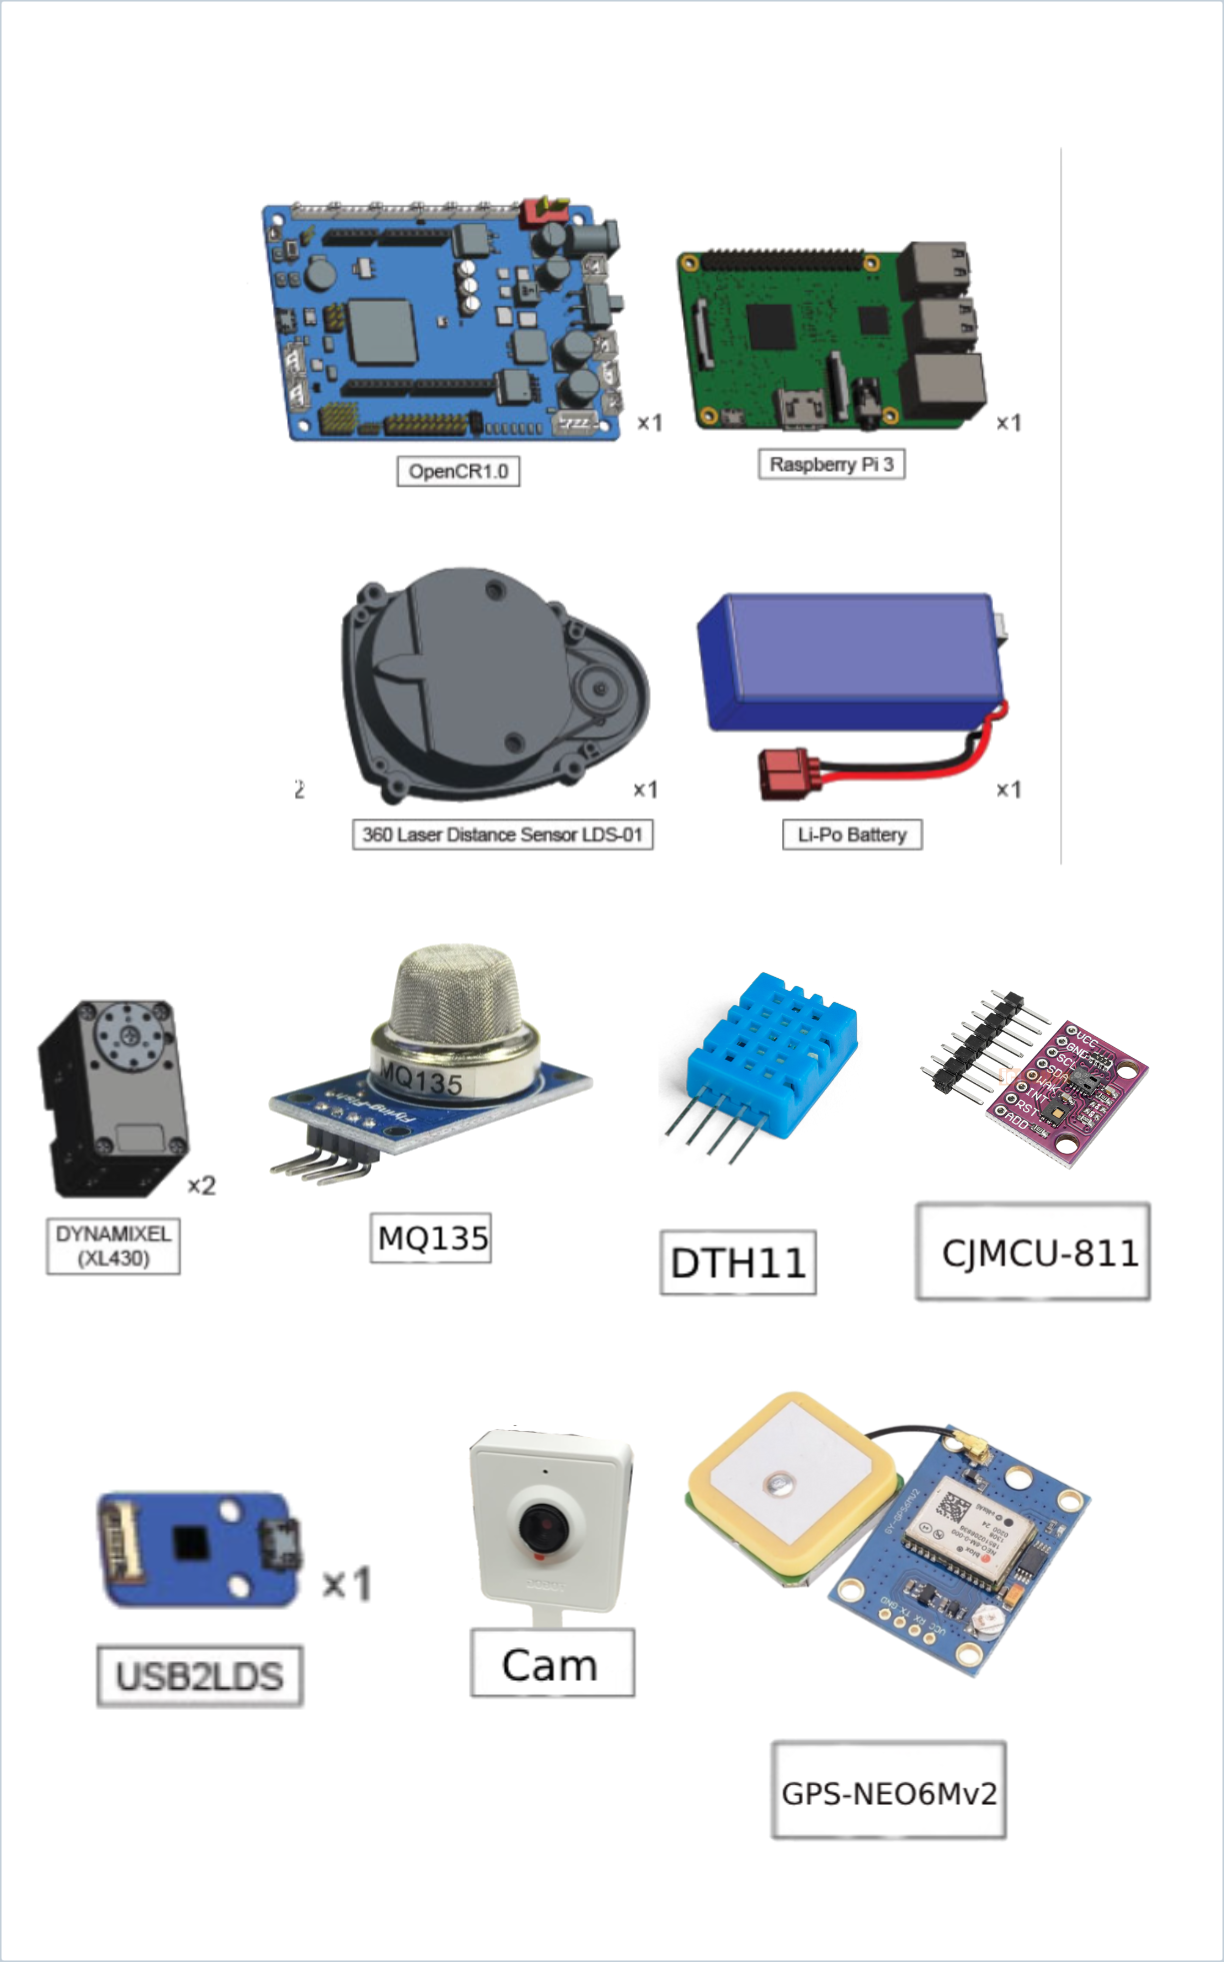
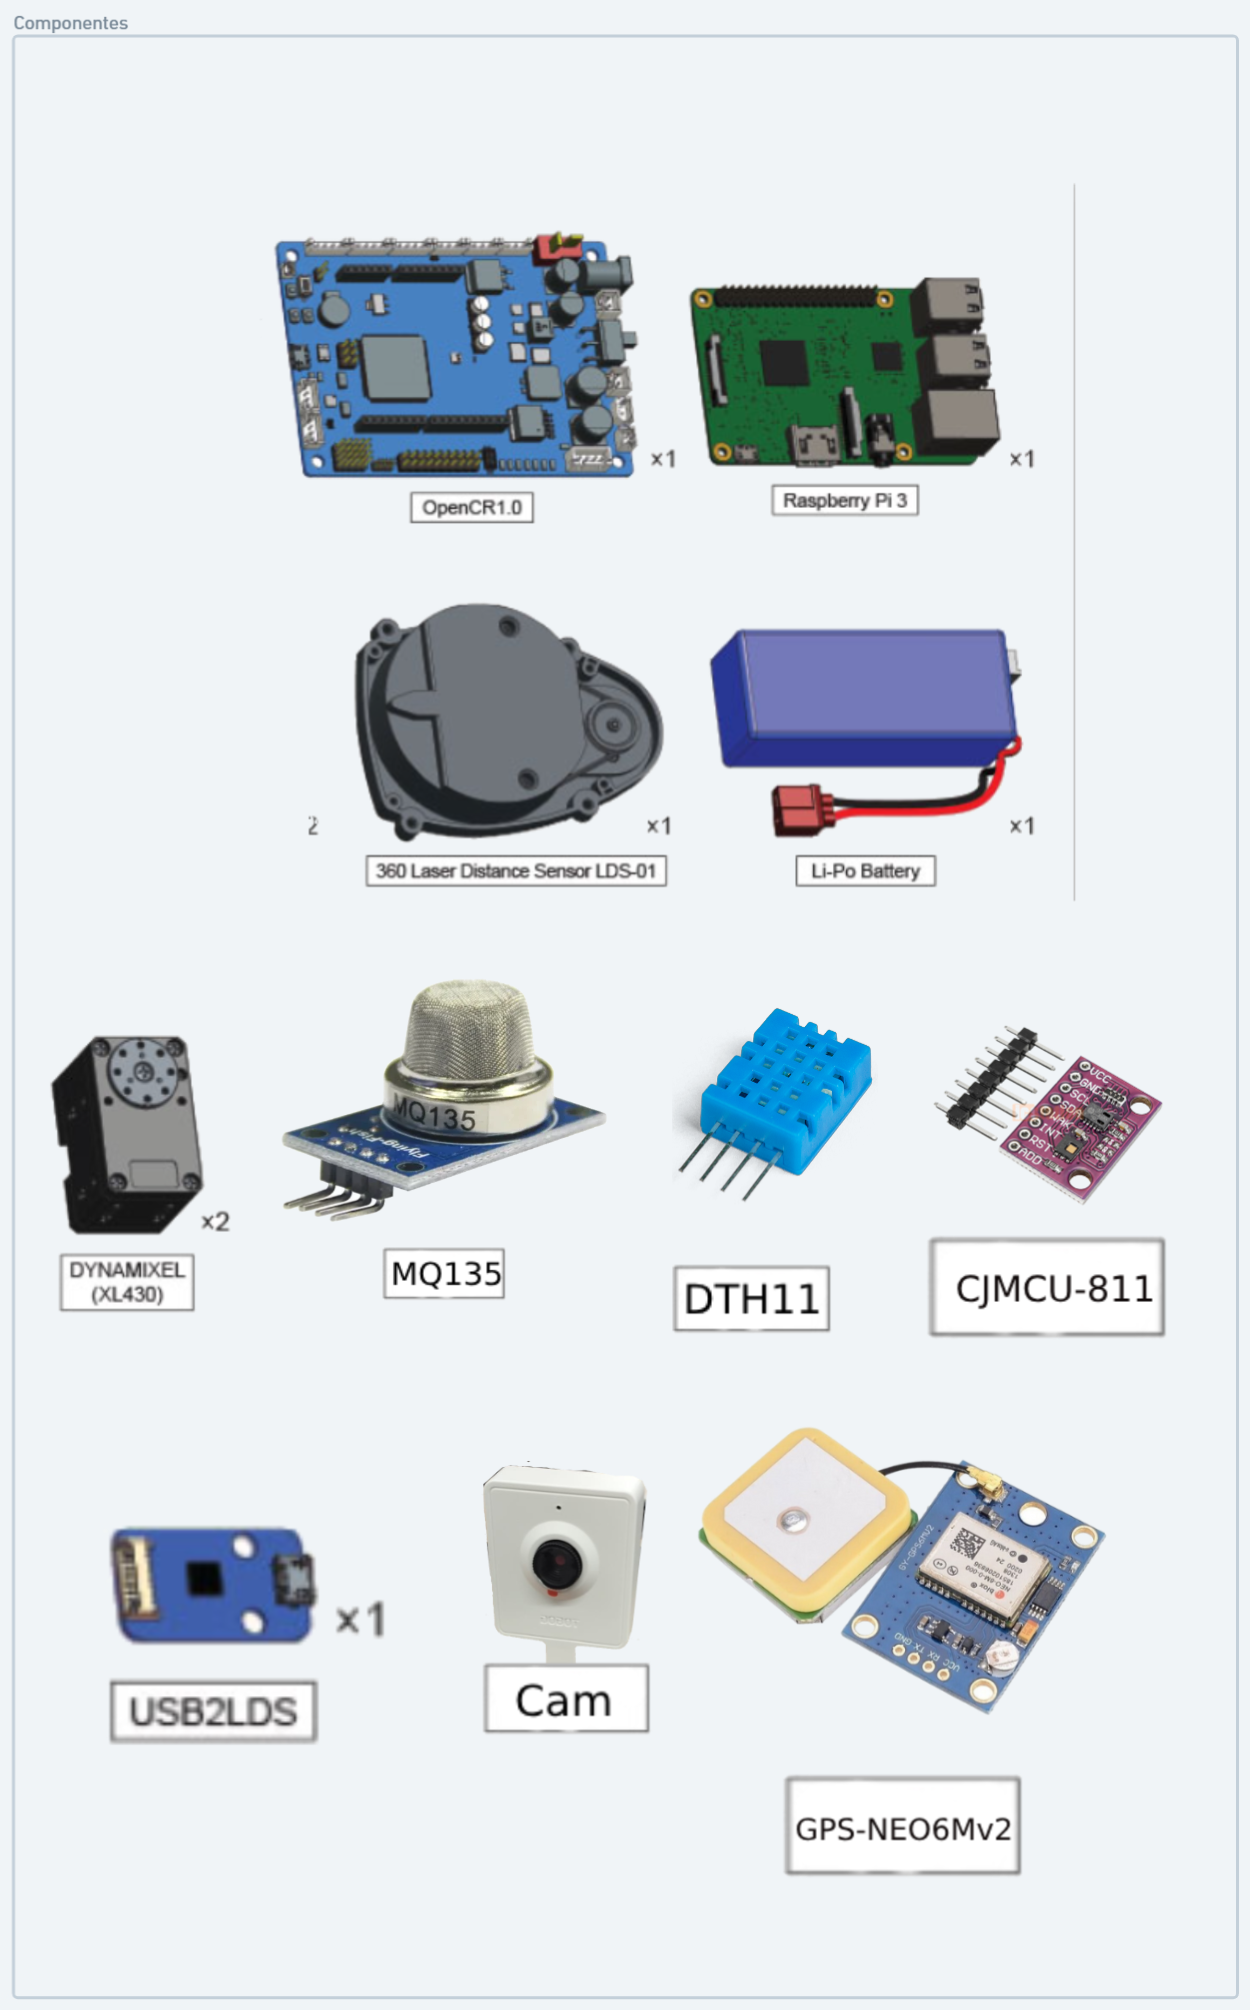
Att de imagens de novo

diff --git a/docs/manual_do_usuario.md b/docs/manual_do_usuario.md
@@ -92,7 +92,7 @@ O operador terá disponível um website, que trará informações de varreduras 
 
 - **Câmera :** Uma câmera comum para visualização.
 
-<p align="center"><img src="https://github.com/2023M6T2-Inteli/Inspectron/blob/Manual_branch/docs/media/componentes.png?raw=true" width="80%"></img></p>
+<p align="center"><img src="https://github.com/2023M6T2-Inteli/Inspectron/blob/LucaSarhan-patch-1/docs/media/componentes.png?raw=true" width="80%"></img></p>
 
 
 ## 2.2. Componentes externos
